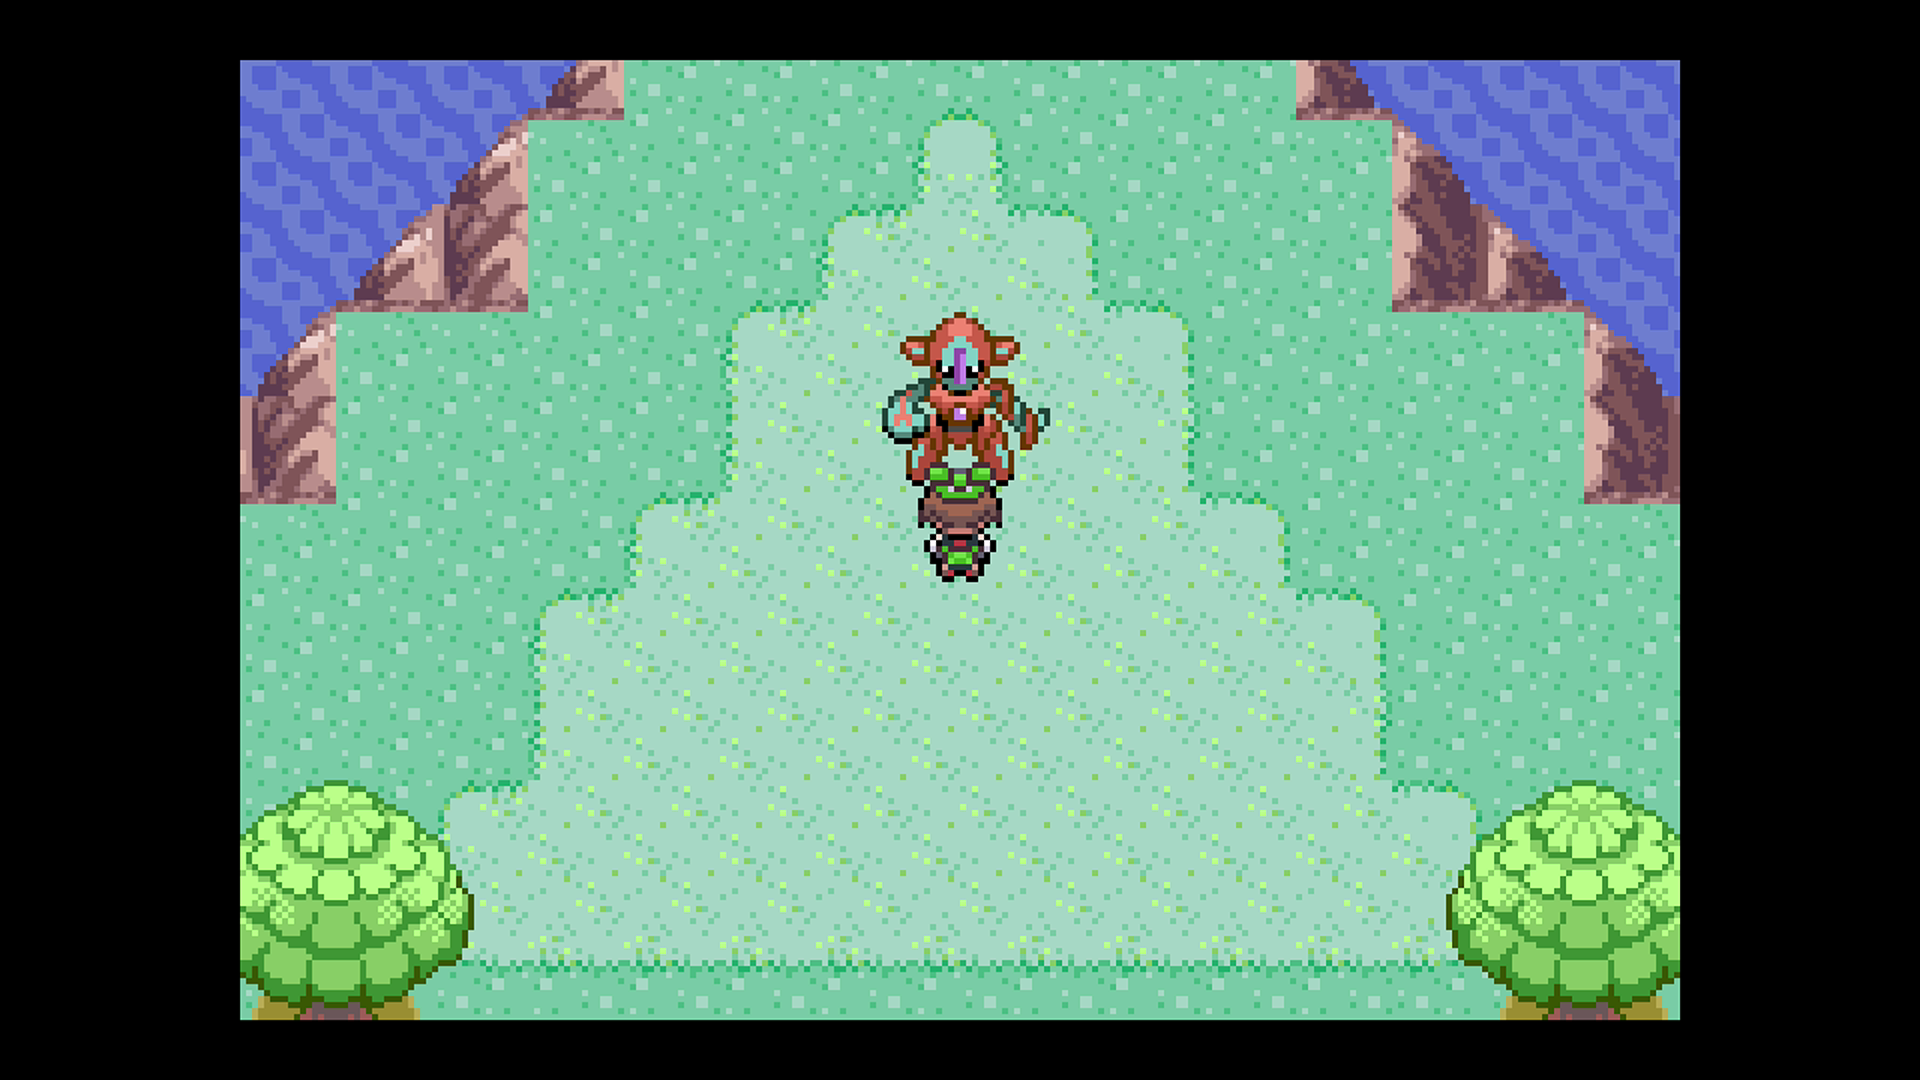
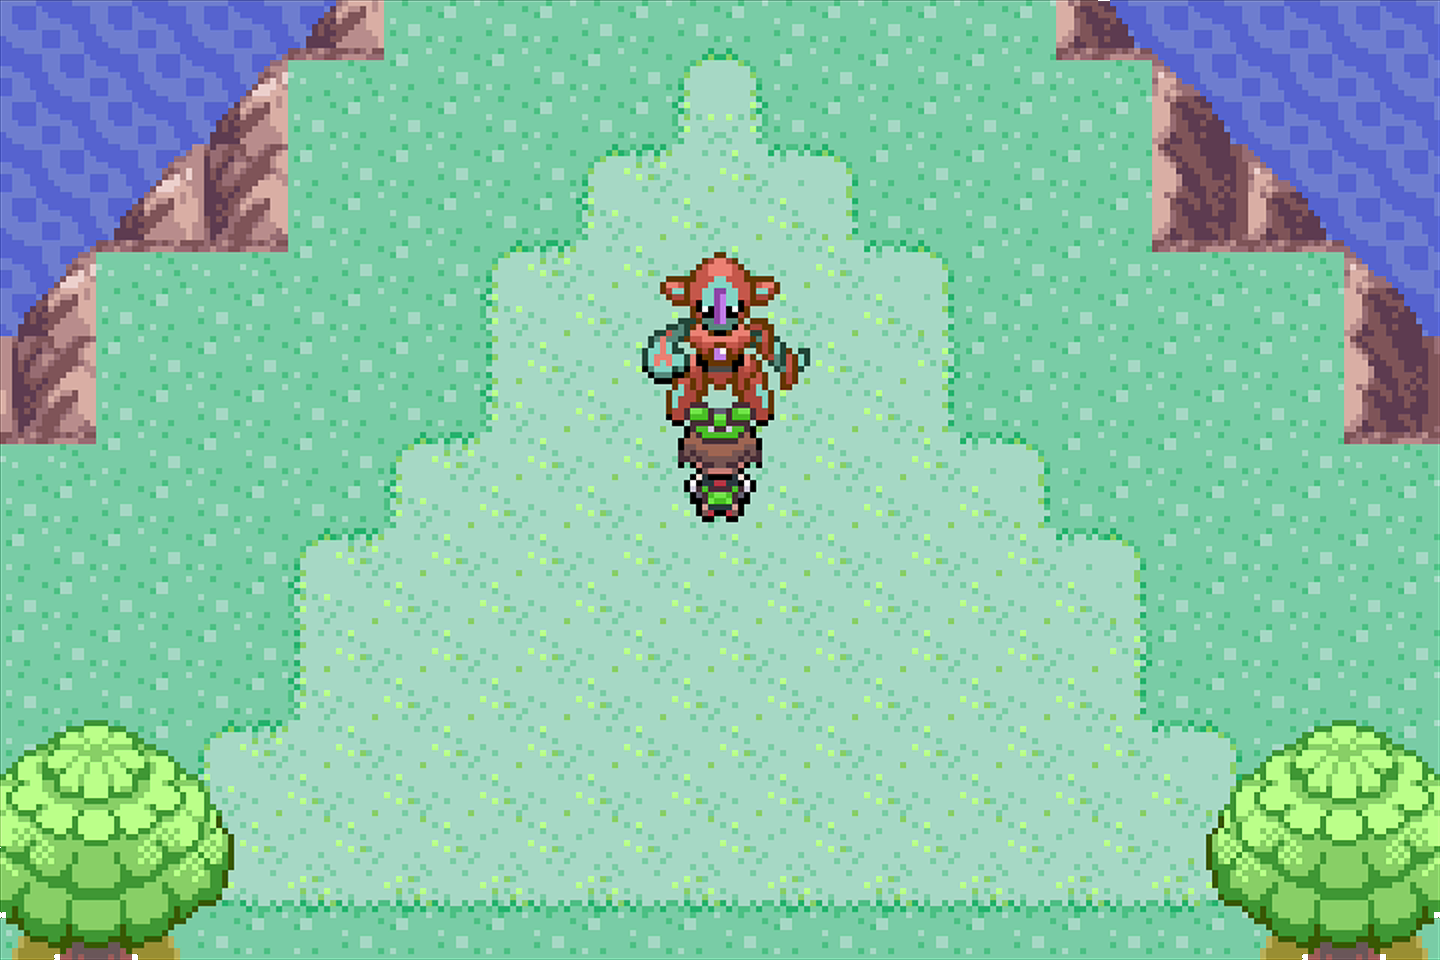
legendary hunt emerald, clean up screenshots

diff --git a/Wiki/Programs/PokemonRSE/ShinyHuntDeoxys.md b/Wiki/Programs/PokemonRSE/ShinyHuntDeoxys.md
@@ -20,12 +20,11 @@ Use the run away method to shiny hunt Deoxys in Emerald.
 ## Setup
 
 1. Your lead Pokemon must be able to run away successfully, or must have a Smoke Ball.
+2. (Optional) Your lead does not have any abilities that activate on entry.
 
 ## Instructions
 
-<img src="images/ShinyHuntDeoxys-1.png">
-
-1. Travel to Birth Island. Once you exit the ship, stay on that tile. (Pictured above.)
+1. Travel to Birth Island and place your character in the selected starting position. (See option below.)
 2. Start the program in game.
 
 ## Notes
@@ -33,6 +32,25 @@ Use the run away method to shiny hunt Deoxys in Emerald.
 If you stop the program and switch off or soft reset your game, try to vary the amount of time you wait before starting the program again. This is due to Emerald's broken RNG.
 
 ## Options
+
+### Starting Position:
+
+The starting location and situation you are in.
+
+Boat/Walk up:
+
+<img src="images/ShinyHuntDeoxys-1.png">
+
+Your character has just arrived and has not moved from where they exited the ship. Alternatively, they are anywhere on the straight line walking up to the Deoxys rock. The Deoxys puzzle has not been solved.
+
+Triangle rock, puzzle is unsolved:
+
+You are in front of the triangular rock. The Deoxys puzzle has not been solved.
+
+Triangle rock, puzzle is already solved:
+
+You are in front of the triangular rock, having already solved the Deoxys puzzle.
+
 
 ### Walk up/down time:
 

diff --git a/Wiki/Programs/PokemonRSE/LegendaryHuntEmerald.md b/Wiki/Programs/PokemonRSE/LegendaryHuntEmerald.md
@@ -1,0 +1,55 @@
+# Legendary Hunt (Emerald)
+
+## Program Description
+
+Use the Run Away method to shiny hunt legendaries in Emerald.
+
+<img src="images/LegendaryHuntEmerald-0.png">
+
+## Game Settings
+
+1. Text Speed: Fast
+2. Battle Scene: Off
+3. Frame: Type 1
+
+## Switch Settings
+
+1. Full screen
+2. No filter
+
+## Setup
+
+1. Your lead Pokemon must be able to run away successfully, or must have a Smoke Ball.
+2. (Optional) Your lead does not have any abilities that activate on entry.
+
+## Instructions
+
+1. Stand in front of your target.
+    - For Ho-Oh, Groudon, and Kyogre, stand one tile before your target. (See below.)
+2. Start the program in game.
+
+<img src="images/LegendaryHuntEmerald-1.png"> <img src="images/LegendaryHuntEmerald-2.png">
+
+## Notes
+
+If you stop the program and switch off or soft reset your game, try to vary the amount of time you wait before starting the program again. This is due to Emerald's broken RNG.
+
+## Options
+
+### Target:
+
+The legendary Pokemon you are hunting.
+
+For Deoxys, see [Shiny Hunt - Deoxys](ShinyHuntDeoxys.md) instead.
+
+## Credits
+
+- **Author:** kichithewolf
+
+
+<hr>
+
+**Discord Server:** 
+
+[<img src="https://canary.discordapp.com/api/guilds/695809740428673034/widget.png?style=banner2">](https://discord.gg/cQ4gWxN)
+
